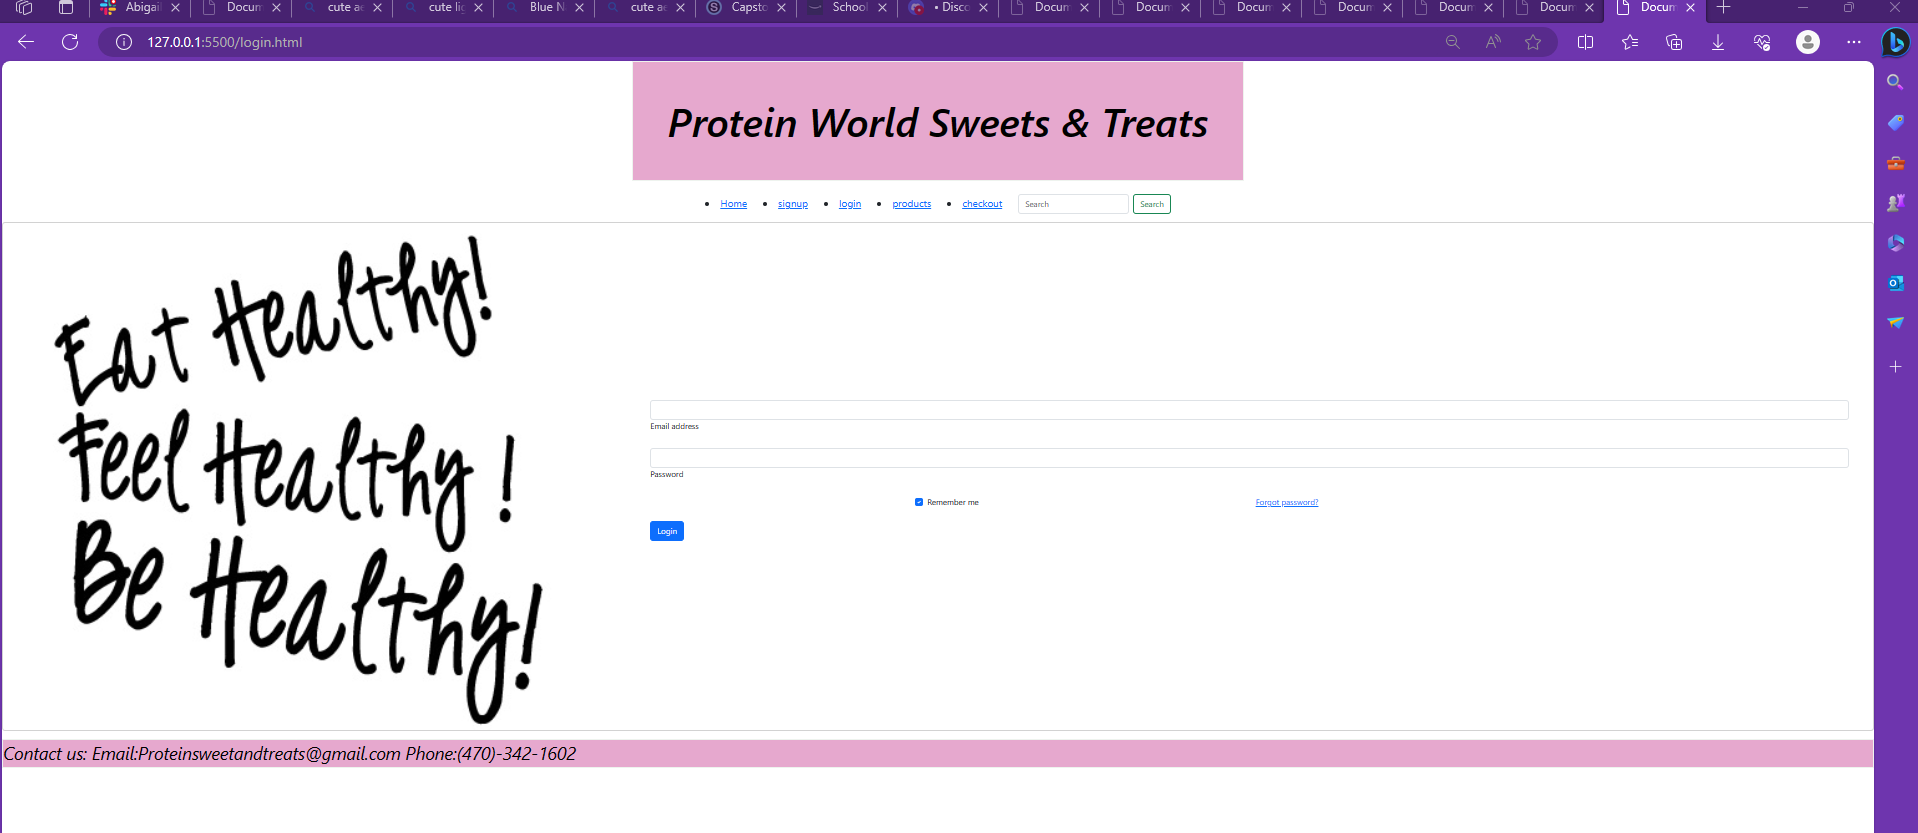
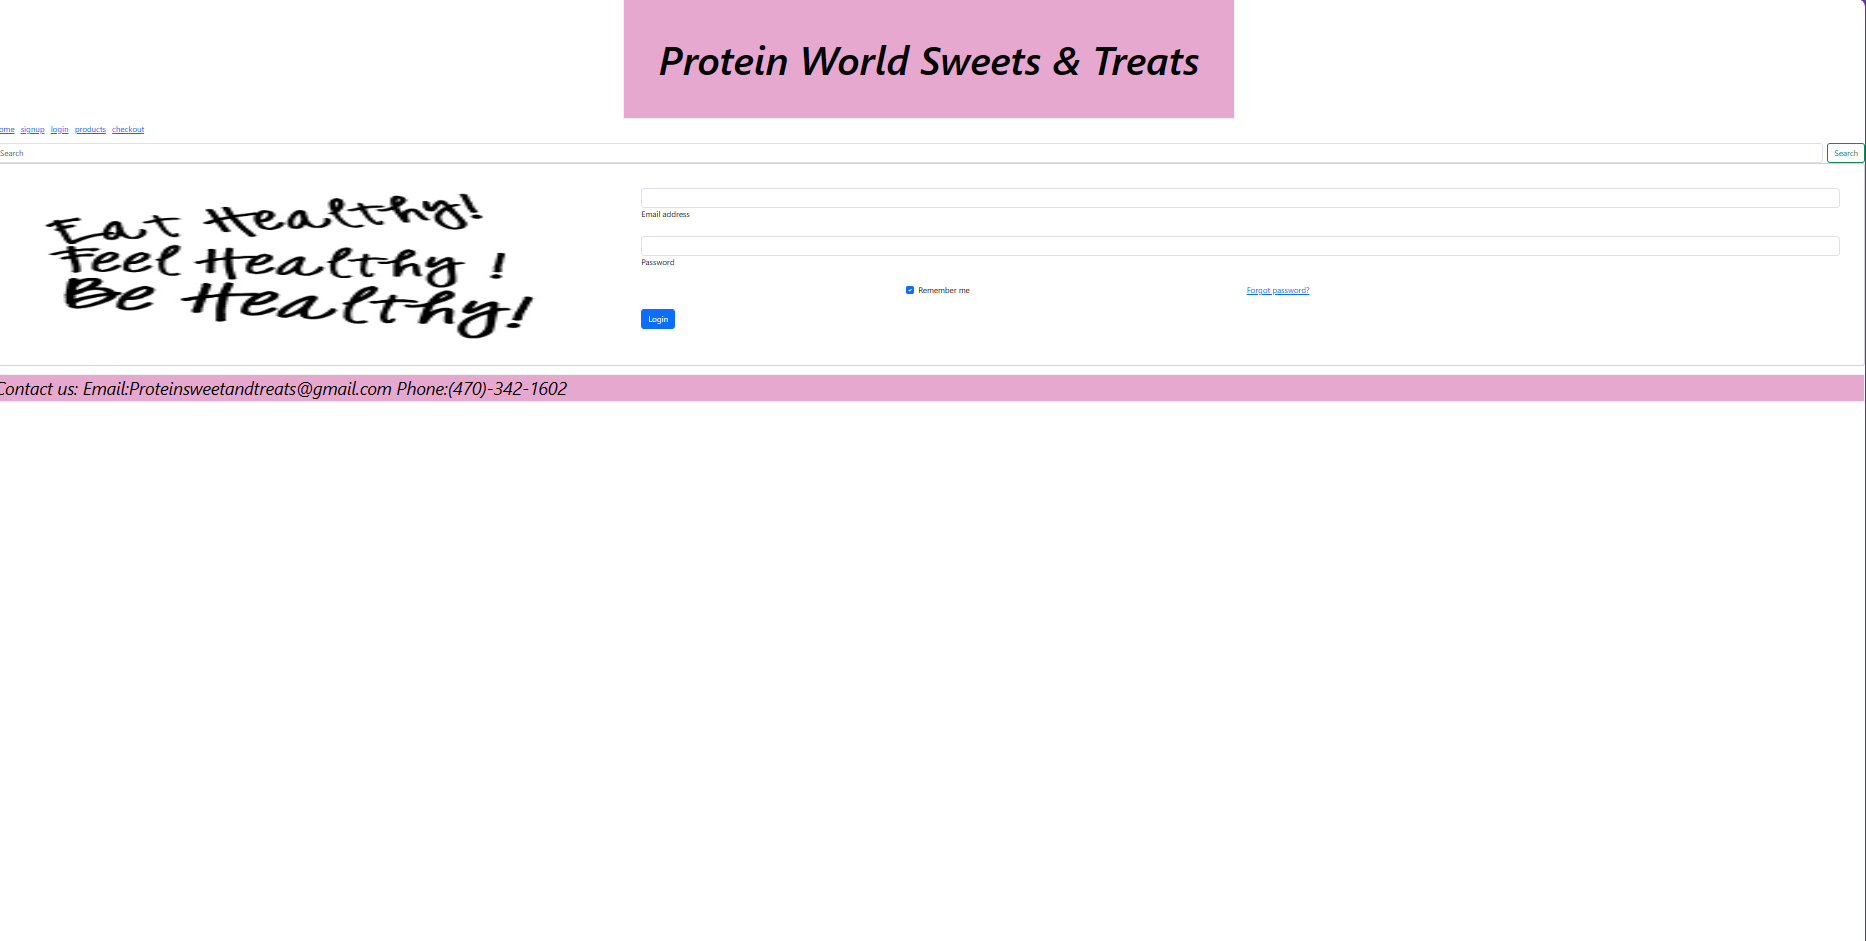
created projects structure and other starter code

diff --git a/login.html b/login.html
@@ -20,19 +20,21 @@
         <h1 class="bubble">Protein World Sweets & Treats</h1>
     </header>
 
-    <nav class="next">
-        <li> <a href="index.html">Home</a></li>
-        <li> <a href="signup.html">signup</a></li>
-        <li> <a href="login.html">login</a></li>
-        <li> <a href="products.html">products</a></li>
-        <li><a href="checkout.html">checkout</a></li>
-   
+    <nav>
+      <ul class="list-group-item">
+        <li class="list-inline-item"> <a href="index.html">Home</a></li>
+        <li class="list-inline-item"> <a href="signup.html">signup</a></li>
+        <li class="list-inline-item"> <a href="login.html">login</a></li>
+        <li class="list-inline-item"><a href="products.html">products</a></li>
+        <li class="list-inline-item"> <a href="checkout.html">checkout</a> </li>
+      </ul>
+    </nav>
        
         <form class="d-flex" role="search">
             <input class="form-control me-2" type="search" placeholder="Search" aria-label="Search">
             <button class="btn btn-outline-success" type="submit">Search</button>
         </form>
-    </nav>
+    
         
         <Main>
         <!-- Section: Design Block -->

diff --git a/index.html b/index.html
@@ -68,8 +68,8 @@
         <img src="https://i.pinimg.com/originals/14/25/d0/1425d062269511da517c8079ab5b344f.jpg" alt="">
         <img src="https://i.pinimg.com/originals/8a/5b/1f/8a5b1f63752ba8a648e7e76d83dc9aa7.jpg" alt="">
         <img src="https://i.pinimg.com/originals/d7/e7/db/d7e7dbcd28fd60e5fd7ee38281b5f448.jpg" alt="">
-        <img src="https://i.pinimg.com/736x/7e/c0/fc/7ec0fc3f9965282b3722d5f37a87fce2.jpg" alt="">
-        <img src="https://64.media.tumblr.com/16f0ea85c84cb8852f3ebf8bc72128ec/tumblr_pdjdl4mW5t1xr05wqo1_500.png" alt="">
+        
+        
 
 
  
